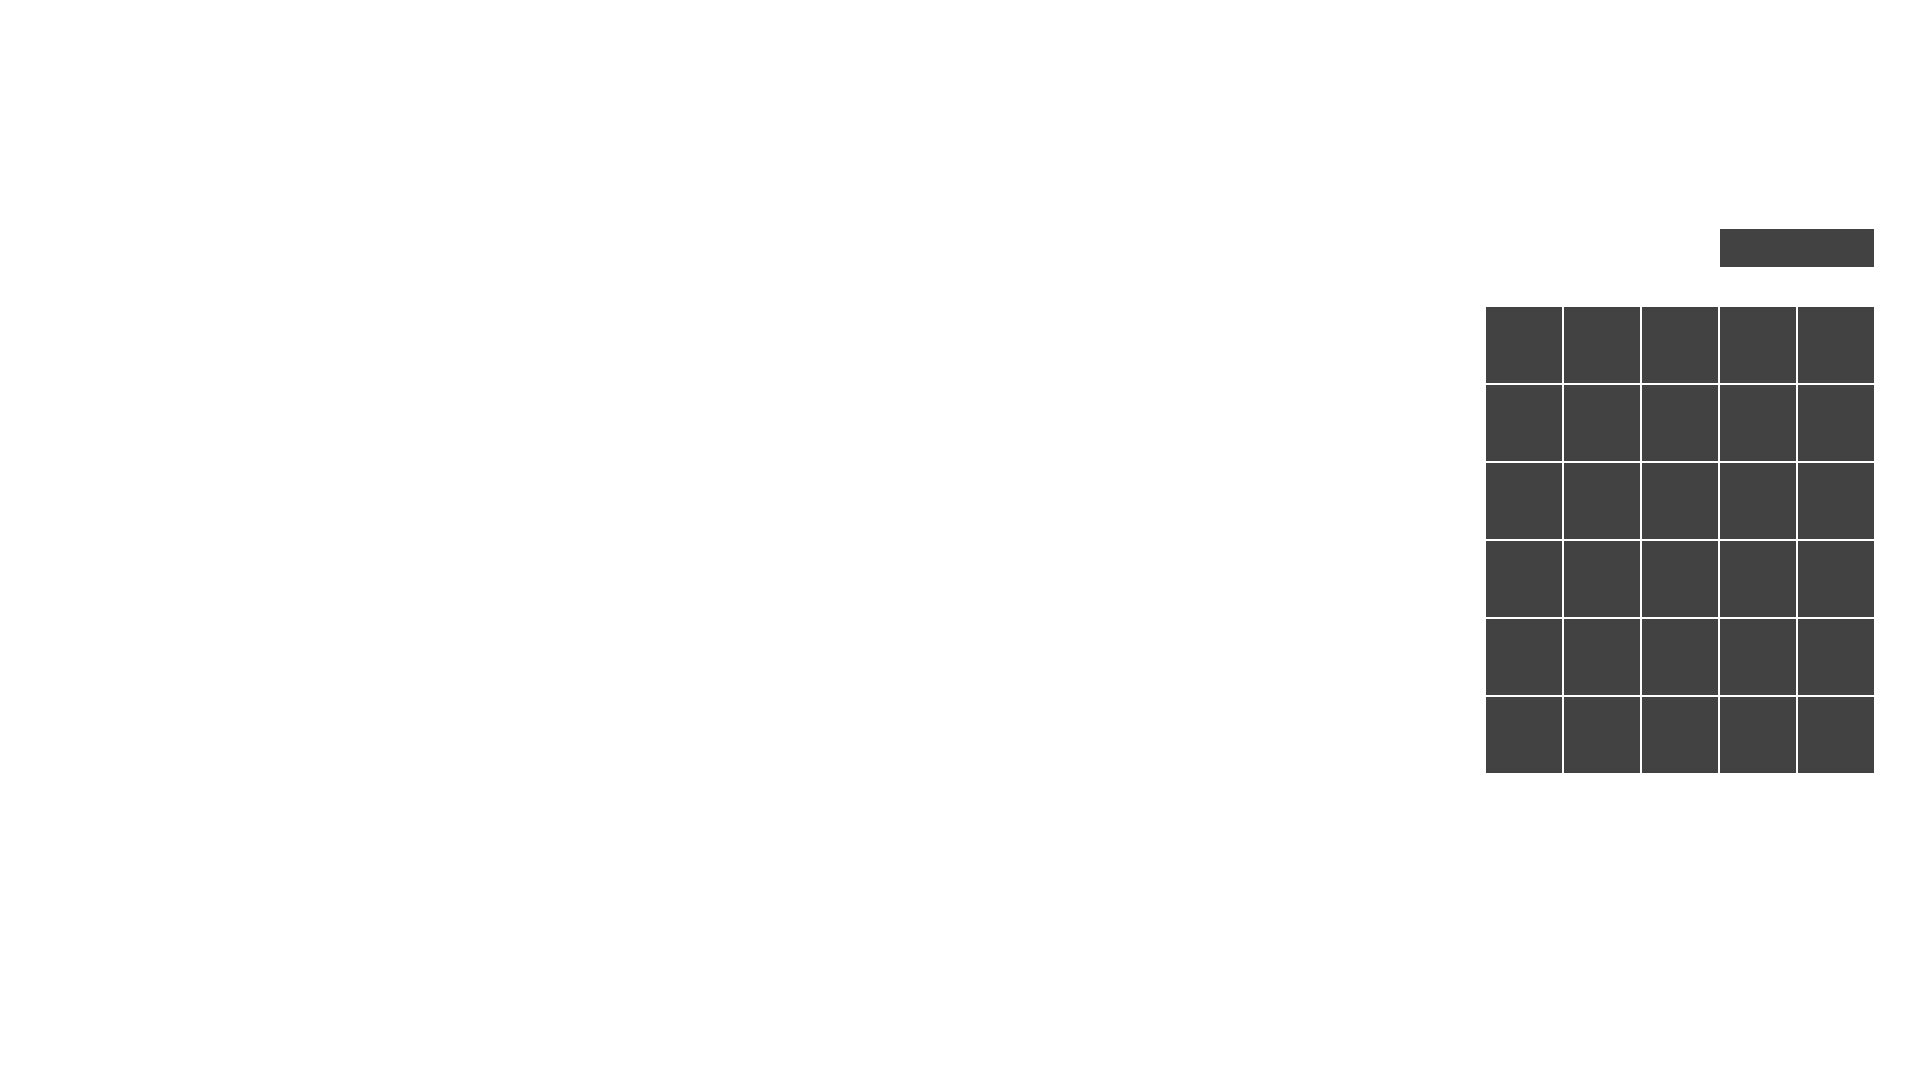
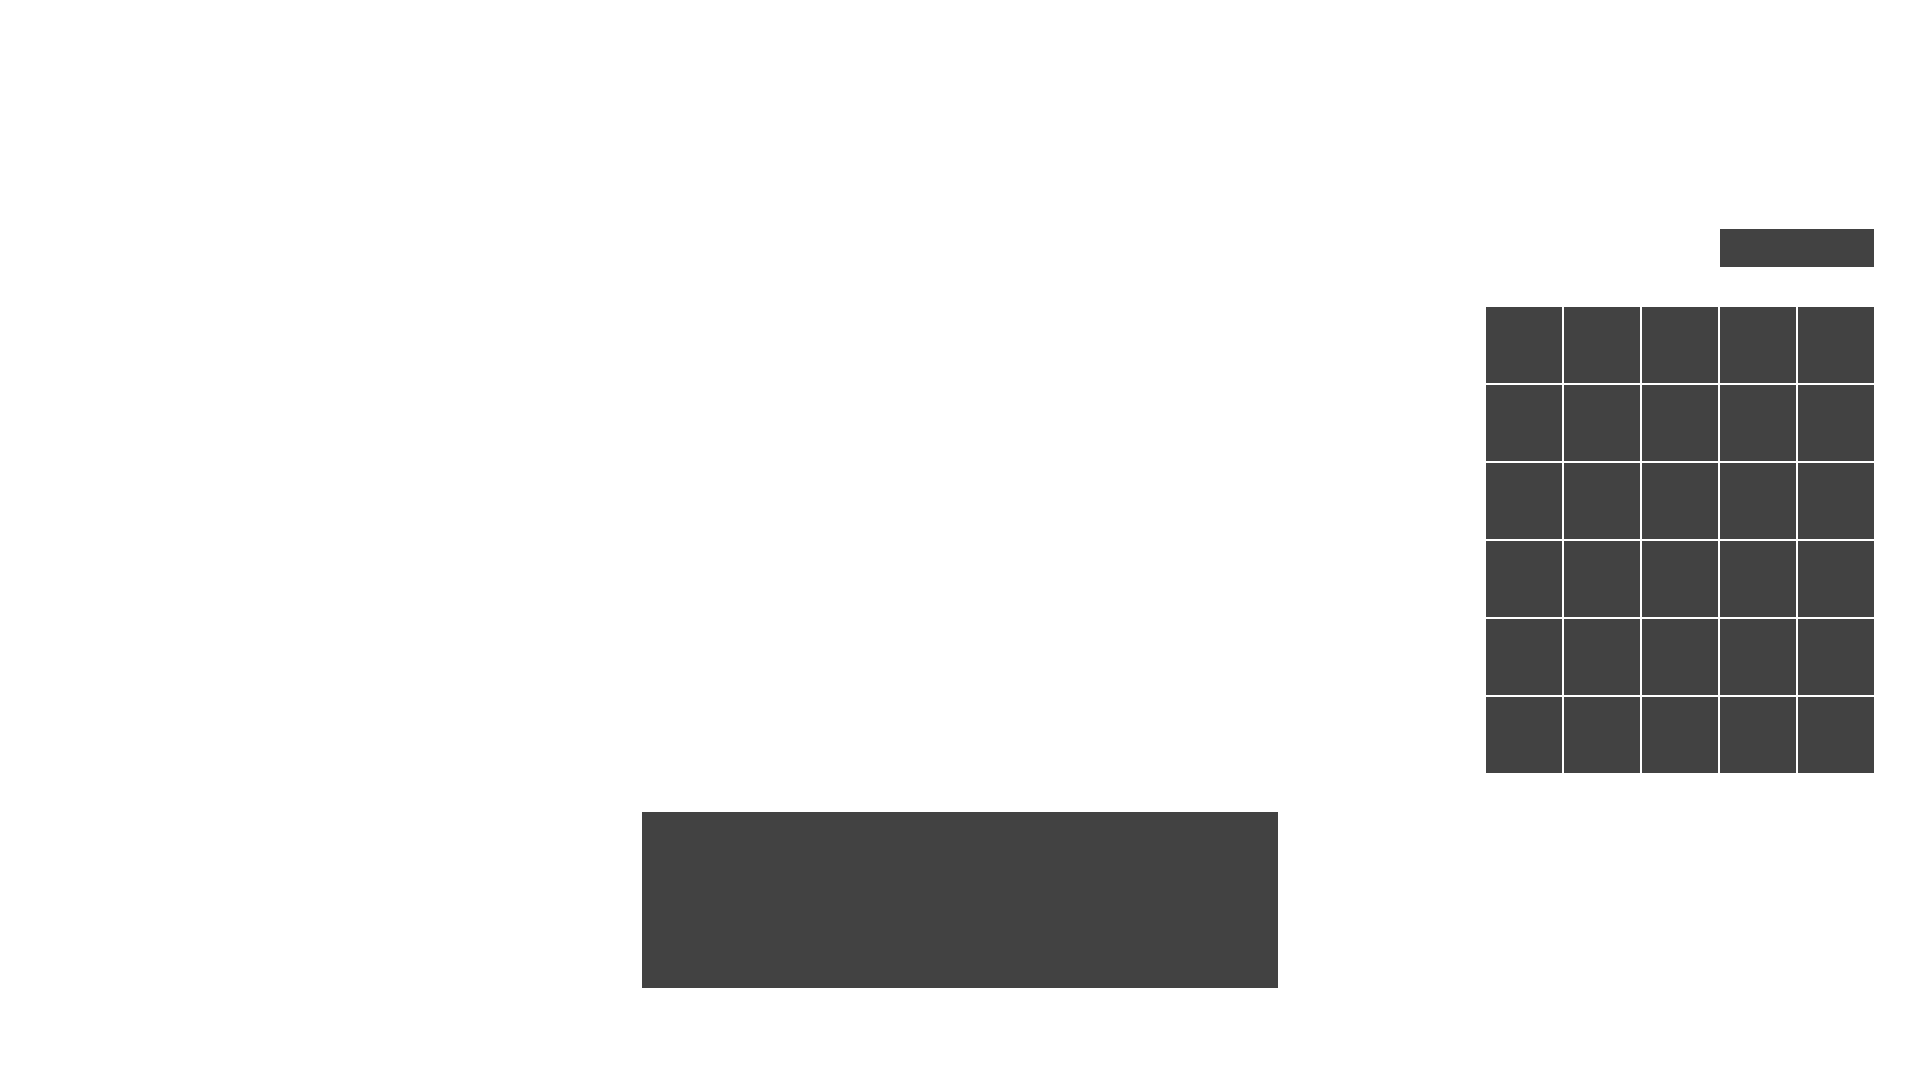
When selecting an item in the inventory the description with an image is shown

Changed region(s): [[0.3125, 0.7333, 0.6875, 0.9167]]

diff --git a/src/models/Item.java b/src/models/Item.java
@@ -19,13 +19,15 @@ public class Item {
 			
 	private Animation mapAnimation;
 	private Animation inventoryAnimation;
+	private Animation descriptionAnimation;
 	
 	private CollisionBox collisionBox;
 	
 	public Item(float x, float y, int width, int height, int duration, String path) throws SlickException {
 		
 		mapAnimation = new Animation(new SpriteSheet(path, width, height), duration);
-		inventoryAnimation = new Animation(new SpriteSheet(new Image(path).getScaledCopy(2), width * 2 , height * 2), duration);
+		inventoryAnimation = new Animation(new SpriteSheet(new Image(path).getScaledCopy(2), width * 2, height * 2), duration);
+		descriptionAnimation = new Animation(new SpriteSheet(new Image(path).getScaledCopy(4), width * 4, height * 4), duration);
 		
 		relativeToMapX = x;
 		relativeToMapY = y;
@@ -64,5 +66,10 @@ public class Item {
 	public Animation getInventoryAnimation() {
 		return inventoryAnimation;
 	}
+	
+	public Animation getDescriptionAnimation() {
+		return descriptionAnimation;
+	}
+	
 	
 }

diff --git a/src/models/Inventory.java b/src/models/Inventory.java
@@ -96,6 +96,10 @@ public class Inventory {
 				
 			}
 			
+			if(inventoryList.size() > selectedCellX + selectedCellY * 5) {
+				inventoryList.get(selectedCellX + selectedCellY * 5).getDescriptionAnimation().draw(1126, 836);
+			}
+			
 		}
 							
 	}
